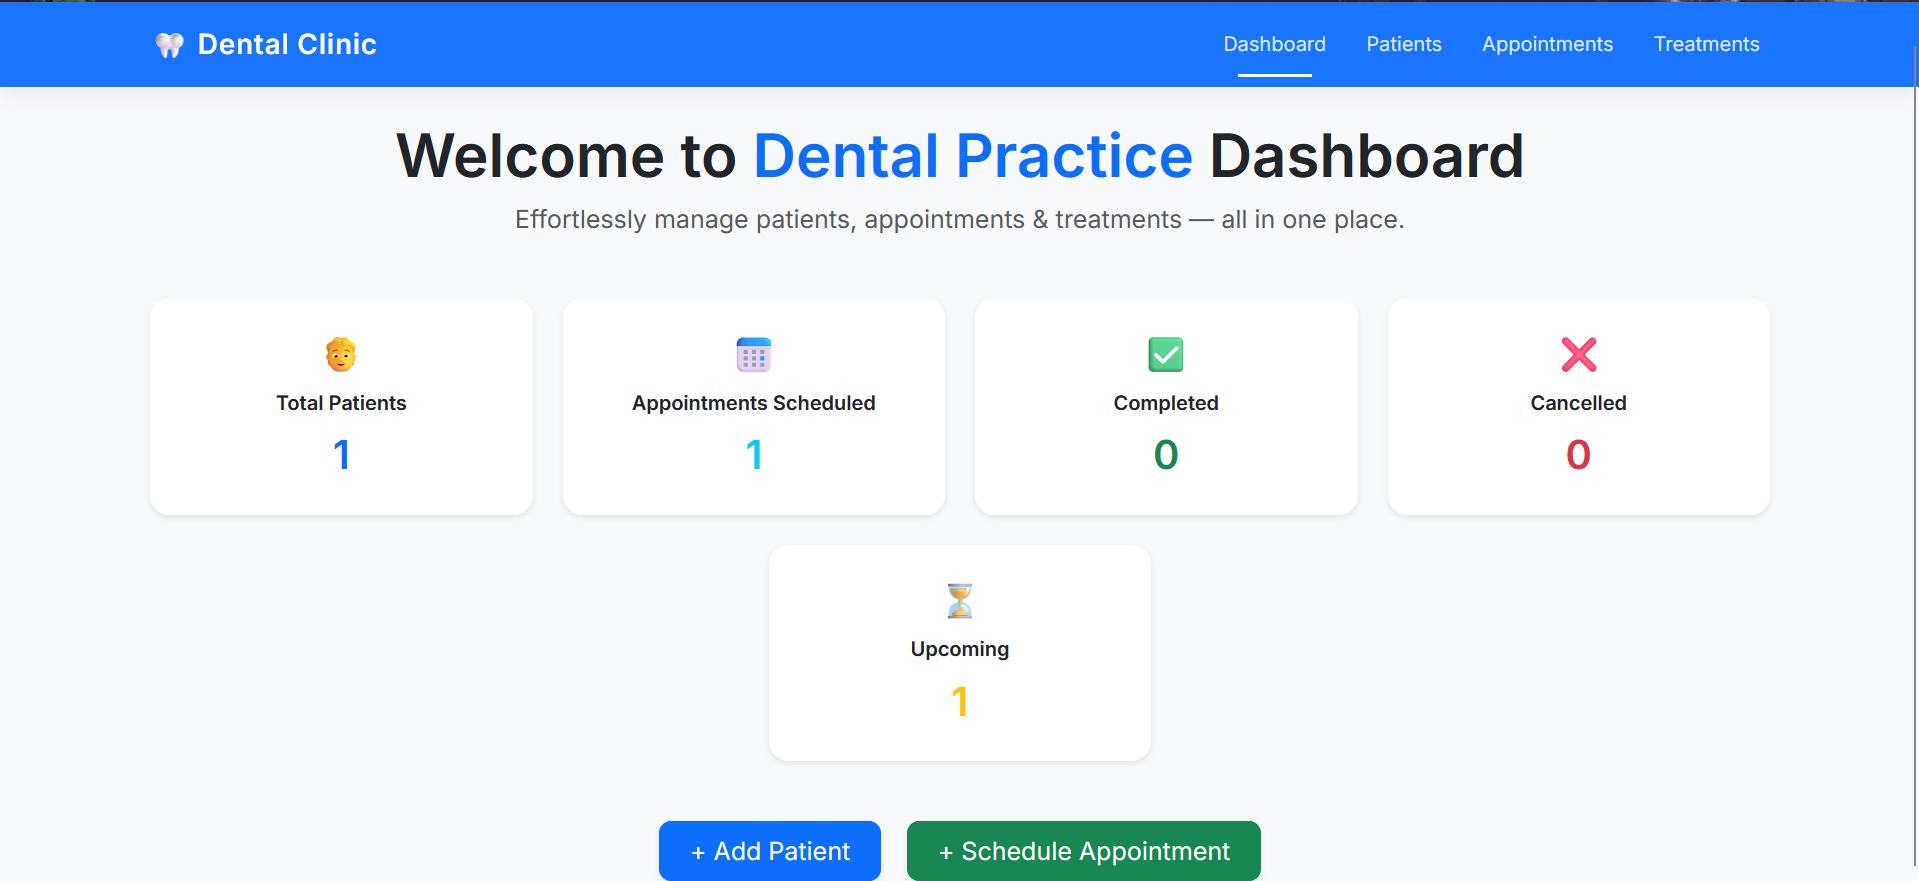
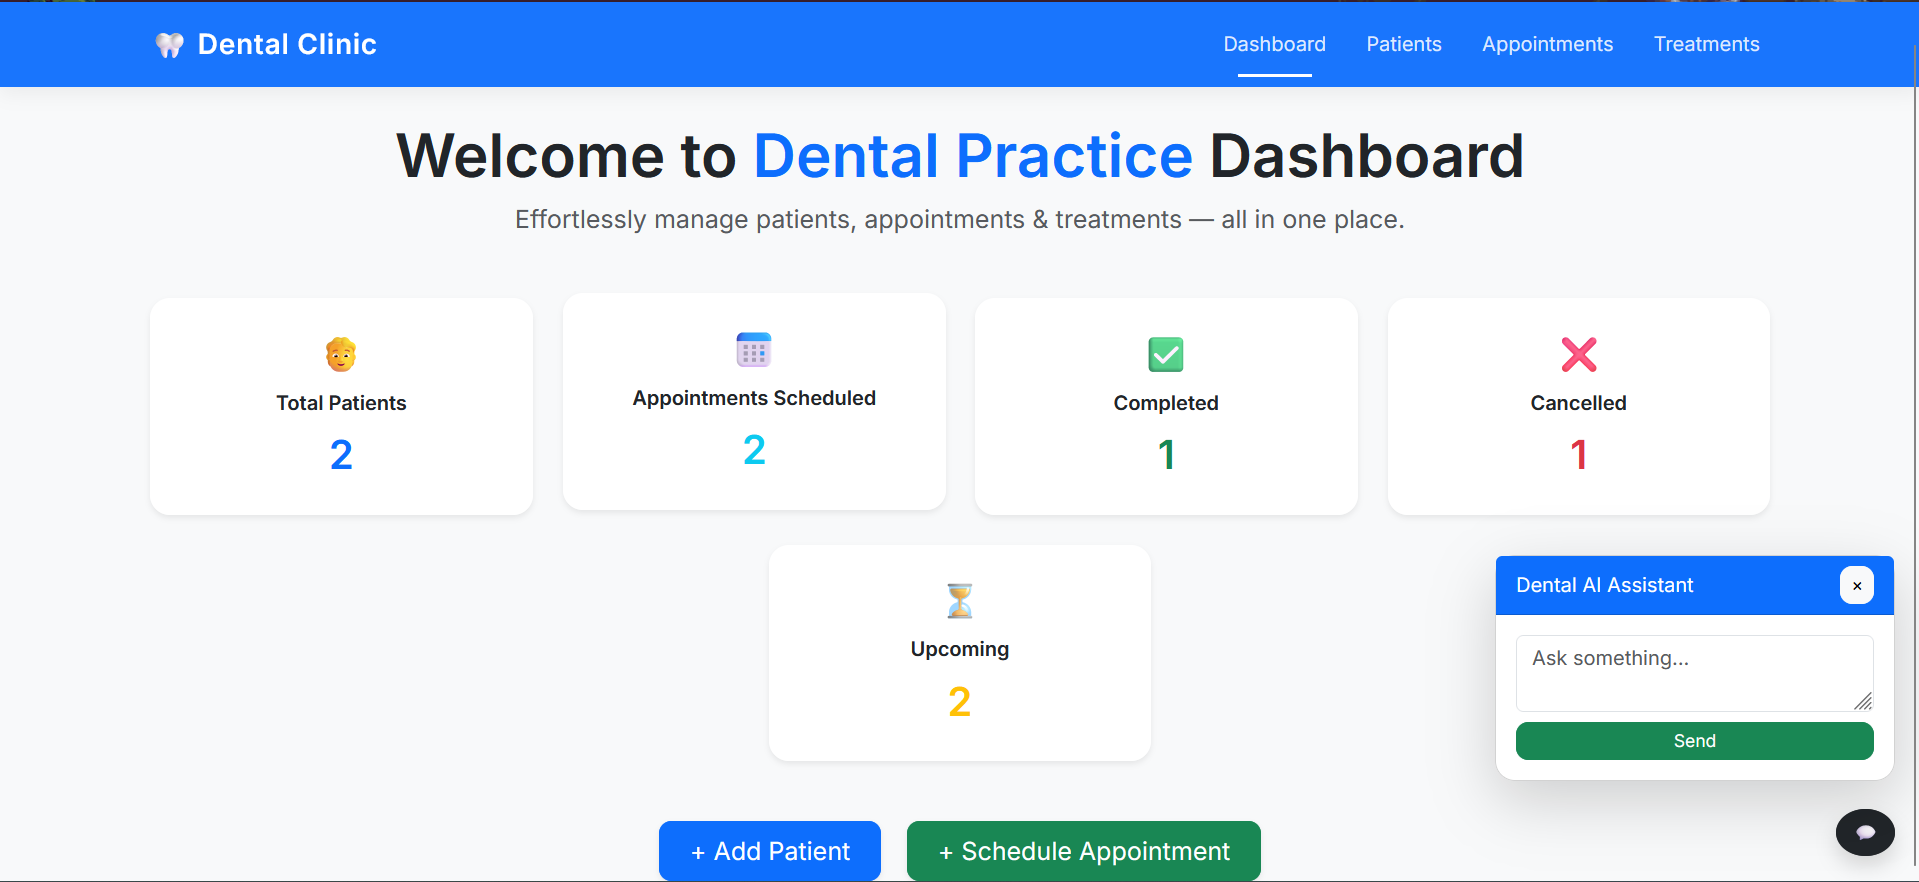
🔁 Final push with AI Chatbot integration and updated features

diff --git a/resources/views/home.blade.php b/resources/views/home.blade.php
@@ -44,4 +44,46 @@
         + Schedule Appointment
     </a>
 </div>
+
+{{-- 🧠 Floating AI Chatbot Button --}}
+<button id="chatbotToggle" class="btn btn-dark rounded-circle shadow" style="position: fixed; bottom: 20px; right: 20px; z-index: 1050;">
+    💬
+</button>
+
+{{-- 🧠 Floating AI Chat Window --}}
+<div id="chatbotWidget" class="card shadow-lg" style="display: none; position: fixed; bottom: 80px; right: 20px; width: 320px; z-index: 1050;">
+    <div class="card-header bg-primary text-white d-flex justify-content-between align-items-center">
+        <span>Dental AI Assistant</span>
+        <button type="button" id="chatbotClose" class="btn btn-sm btn-light">×</button>
+    </div>
+    <div class="card-body">
+        @if (session('bot_reply'))
+            <div class="alert alert-info p-2"><strong>AI:</strong> {{ session('bot_reply') }}</div>
+        @endif
+
+        <form method="POST" action="{{ route('chatbot.send') }}">
+            @csrf
+            <div class="mb-2">
+                <textarea name="message" class="form-control" placeholder="Ask something..." required>{{ old('message') }}</textarea>
+            </div>
+            <button type="submit" class="btn btn-sm btn-success w-100">Send</button>
+        </form>
+    </div>
+</div>
+
+{{-- 🔄 Toggle Script --}}
+<script>
+    const toggle = document.getElementById('chatbotToggle');
+    const widget = document.getElementById('chatbotWidget');
+    const close = document.getElementById('chatbotClose');
+
+    toggle.addEventListener('click', () => {
+        widget.style.display = widget.style.display === 'none' ? 'block' : 'none';
+    });
+
+    close.addEventListener('click', () => {
+        widget.style.display = 'none';
+    });
+</script>
 @endsection
+

diff --git a/app/Http/Controllers/ChatbotController.php b/app/Http/Controllers/ChatbotController.php
@@ -1,0 +1,32 @@
+<?php
+
+namespace App\Http\Controllers;
+
+use Illuminate\Http\Request;
+use Illuminate\Support\Facades\Http;
+
+class ChatbotController extends Controller
+{
+    public function send(Request $request)
+    {
+        $message = $request->input('message');
+
+        $apiKey = config('services.openai.key');
+
+        $response = Http::withHeaders([
+            'Authorization' => 'Bearer ' . $apiKey,
+        ])->post('https://api.openai.com/v1/chat/completions', [
+            'model' => 'gpt-3.5-turbo',
+            'messages' => [
+                ['role' => 'user', 'content' => $message],
+            ],
+        ]);
+
+        $data = $response->json();
+        $reply = $data['choices'][0]['message']['content'] ?? 'AI failed to respond.';
+
+        return redirect()->route('home')->with('bot_reply', $reply);
+    }
+}
+
+

diff --git a/routes/web.php b/routes/web.php
@@ -5,6 +5,7 @@ use App\Http\Controllers\HomeController;
 use App\Http\Controllers\PatientController;
 use App\Http\Controllers\AppointmentController;
 use App\Http\Controllers\TreatmentController;
+use App\Http\Controllers\ChatbotController;
 
 Route::get('/', function () {
     return redirect('/home');
@@ -16,4 +17,10 @@ Route::resource('appointments', AppointmentController::class);
 Route::patch('appointments/{id}/status/{status}', [AppointmentController::class, 'updateStatus'])->name('appointments.updateStatus');
 
 Route::resource('treatments', TreatmentController::class);
+
+
+Route::post('/chatbot', [ChatbotController::class, 'send'])->name('chatbot.send');
+
+
+
 

diff --git a/config/services.php b/config/services.php
@@ -34,5 +34,9 @@ return [
             'channel' => env('SLACK_BOT_USER_DEFAULT_CHANNEL'),
         ],
     ],
+    'openai' => [
+    'key' => env('OPENAI_API_KEY'),
+],
+
 
 ];
